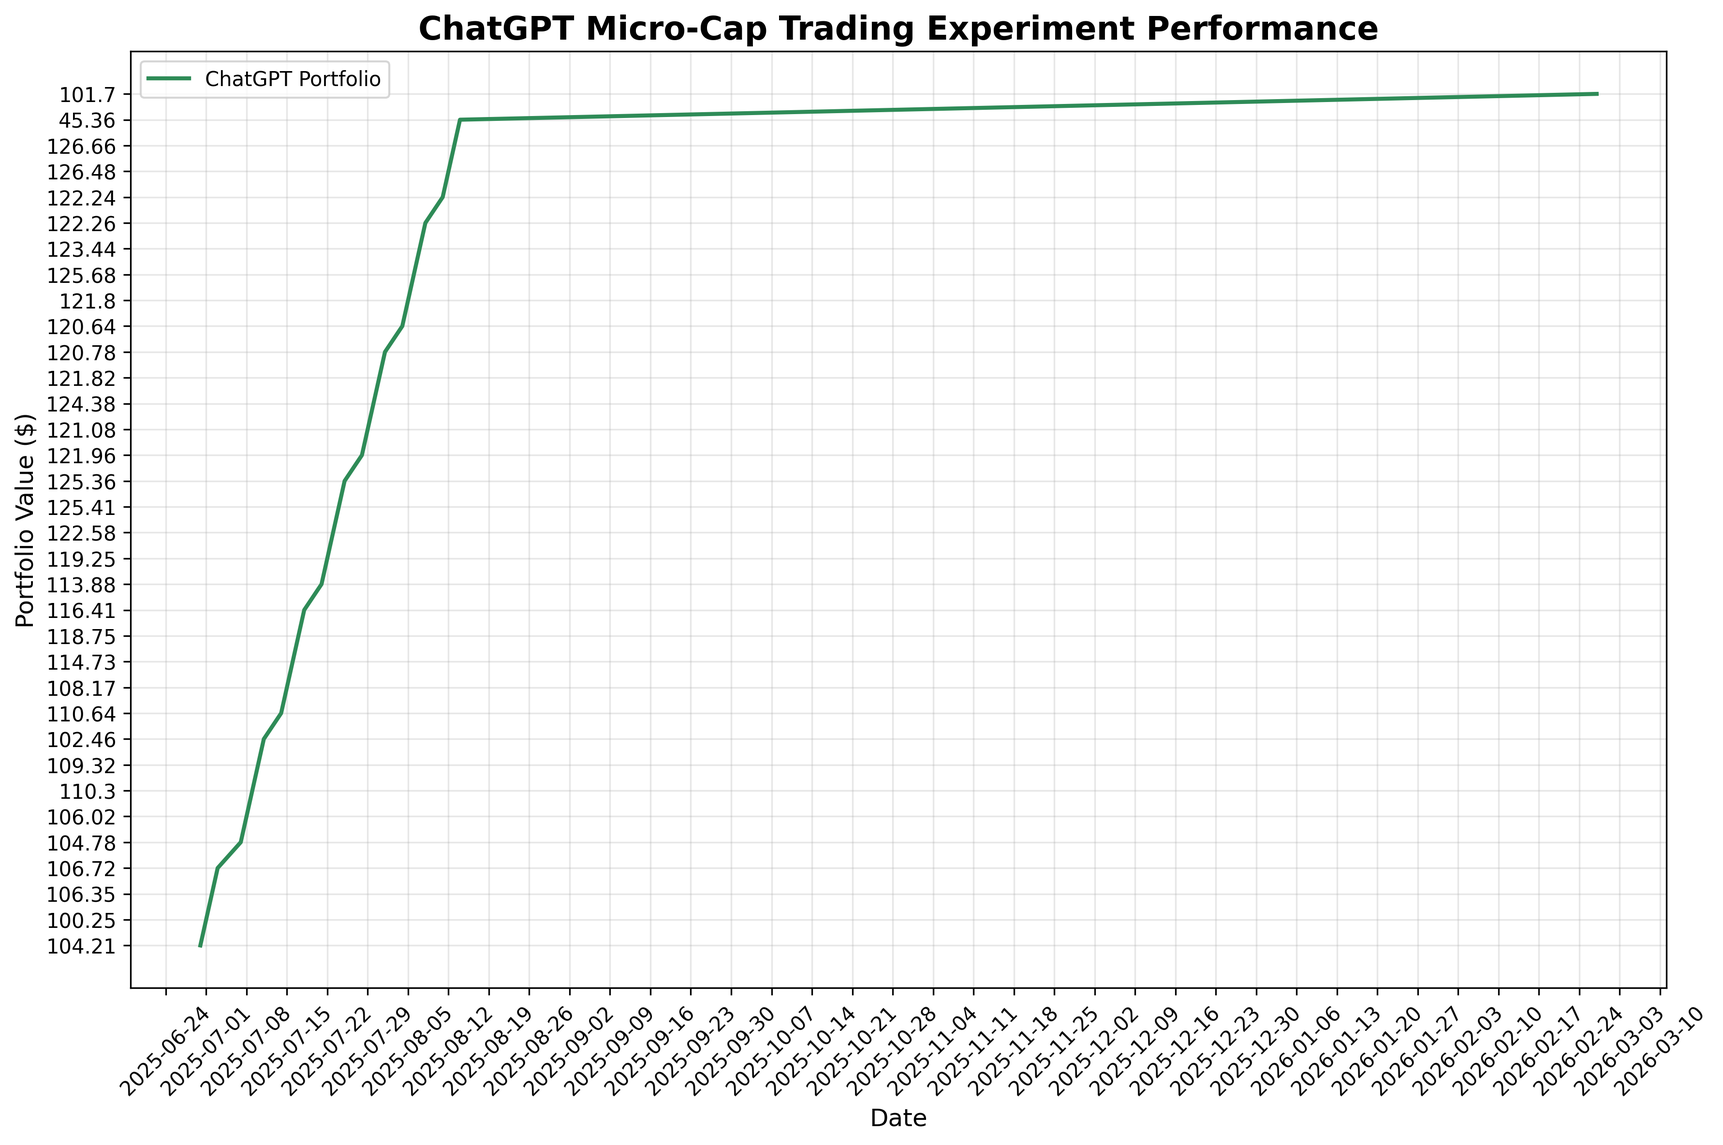
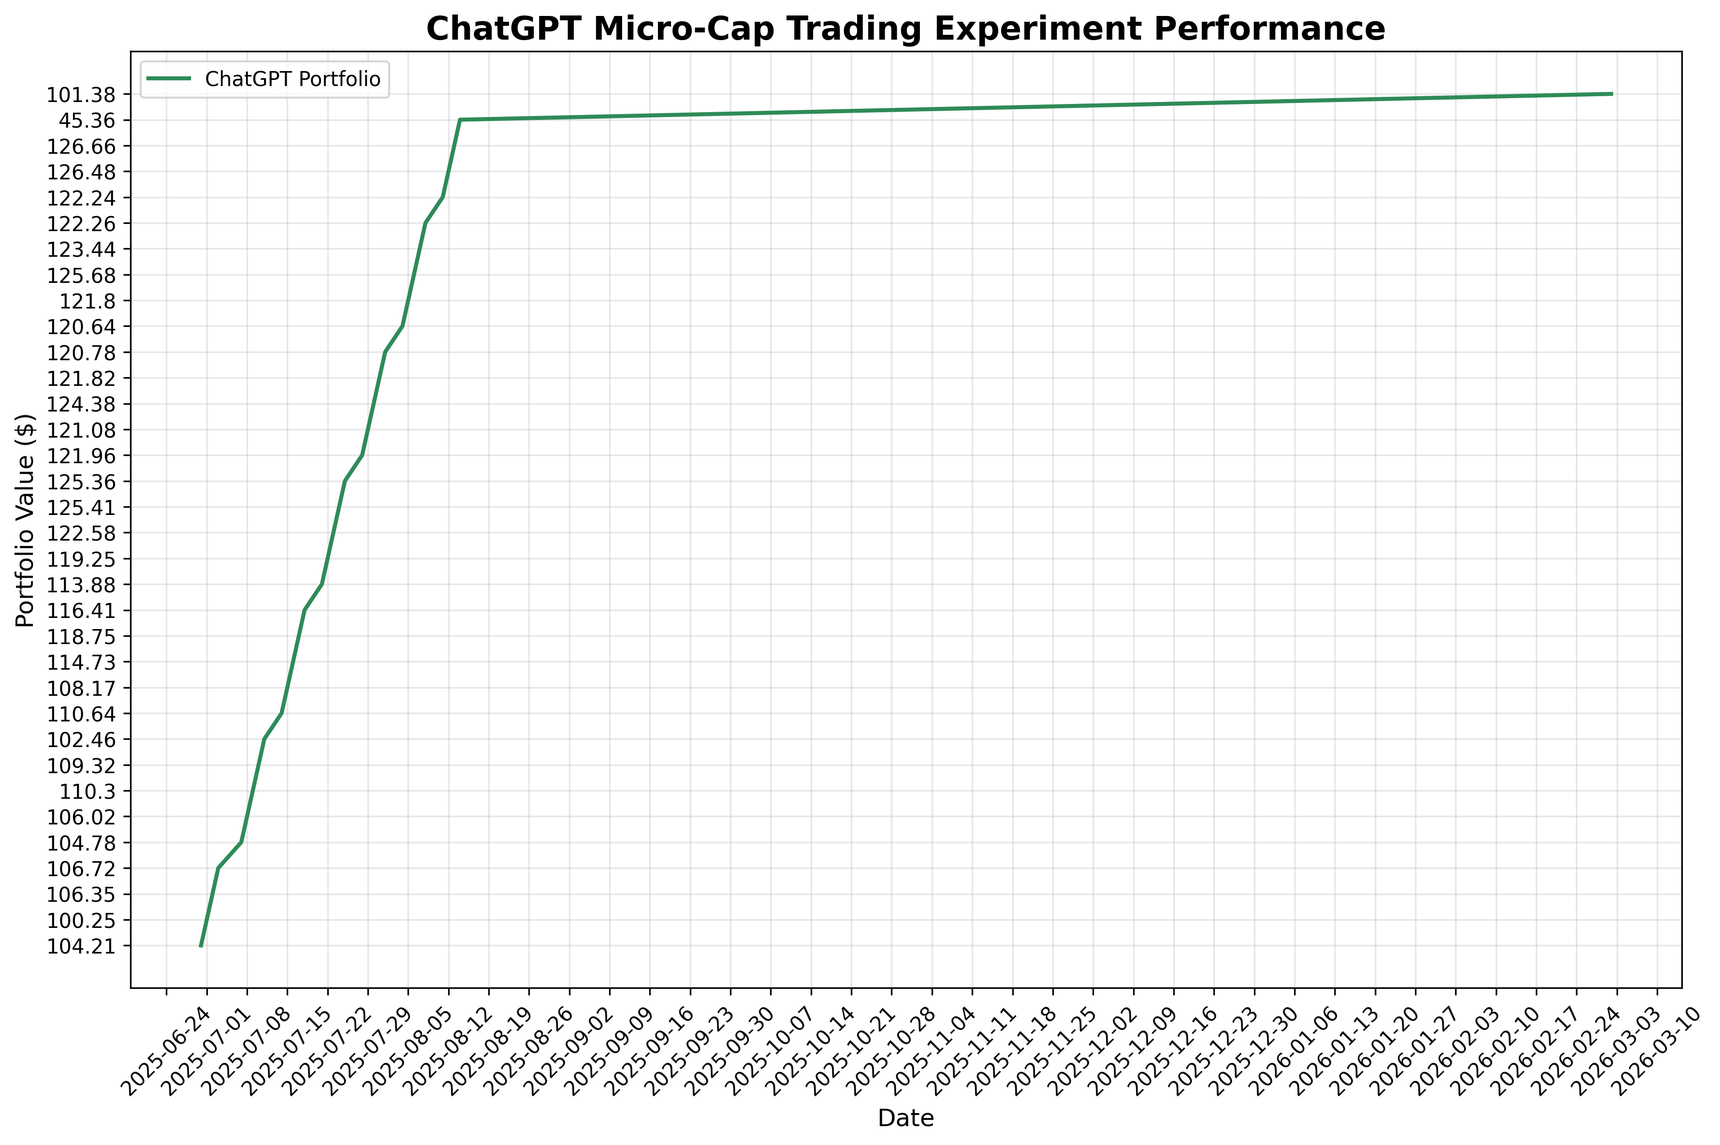
deploy: e15cad030d70fb3fbb51f9df6e22fa70c2f175c0

diff --git a/index.html b/index.html
@@ -105,7 +105,7 @@
                 <div class="stat-label">Total Trades</div>
             </div>
             <div class="stat-card">
-                <div class="stat-value" id="last-updated">2026-02-27</div>
+                <div class="stat-value" id="last-updated">2026-03-02</div>
                 <div class="stat-label">Last Updated</div>
             </div>
         </div>
@@ -160,8 +160,8 @@
     
     <script>
         // Portfolio data
-        const portfolioData = JSON.parse("[{&quot;Date&quot;: &quot;2025-08-11&quot;, &quot;Ticker&quot;: &quot;ABEO&quot;, &quot;Shares&quot;: 4.0, &quot;Buy Price&quot;: 5.77, &quot;Cost Basis&quot;: 23.08, &quot;Stop Loss&quot;: 4.9, &quot;Current Price&quot;: 6.28, &quot;Total Value&quot;: 25.12, &quot;PnL&quot;: 2.04, &quot;Action&quot;: &quot;HOLD&quot;, &quot;Cash Balance&quot;: NaN, &quot;Total Equity&quot;: NaN}, {&quot;Date&quot;: &quot;2025-08-11&quot;, &quot;Ticker&quot;: &quot;ACTU&quot;, &quot;Shares&quot;: 6.0, &quot;Buy Price&quot;: 5.75, &quot;Cost Basis&quot;: 34.5, &quot;Stop Loss&quot;: 4.89, &quot;Current Price&quot;: 8.01, &quot;Total Value&quot;: 48.06, &quot;PnL&quot;: 13.56, &quot;Action&quot;: &quot;HOLD&quot;, &quot;Cash Balance&quot;: NaN, &quot;Total Equity&quot;: NaN}, {&quot;Date&quot;: &quot;2025-08-11&quot;, &quot;Ticker&quot;: &quot;ESPR&quot;, &quot;Shares&quot;: 2.0, &quot;Buy Price&quot;: 1.91, &quot;Cost Basis&quot;: 3.82, &quot;Stop Loss&quot;: 1.6, &quot;Current Price&quot;: 1.85, &quot;Total Value&quot;: 3.7, &quot;PnL&quot;: -0.12, &quot;Action&quot;: &quot;HOLD&quot;, &quot;Cash Balance&quot;: NaN, &quot;Total Equity&quot;: NaN}, {&quot;Date&quot;: &quot;2025-08-11&quot;, &quot;Ticker&quot;: &quot;TOTAL&quot;, &quot;Shares&quot;: NaN, &quot;Buy Price&quot;: NaN, &quot;Cost Basis&quot;: NaN, &quot;Stop Loss&quot;: NaN, &quot;Current Price&quot;: NaN, &quot;Total Value&quot;: 76.88, &quot;PnL&quot;: 15.48, &quot;Action&quot;: NaN, &quot;Cash Balance&quot;: 45.36, &quot;Total Equity&quot;: &quot;122.24&quot;}, {&quot;Date&quot;: &quot;2025-08-12&quot;, &quot;Ticker&quot;: &quot;ABEO&quot;, &quot;Shares&quot;: 4.0, &quot;Buy Price&quot;: 5.77, &quot;Cost Basis&quot;: 23.08, &quot;Stop Loss&quot;: 4.9, &quot;Current Price&quot;: 6.38, &quot;Total Value&quot;: 25.52, &quot;PnL&quot;: 2.44, &quot;Action&quot;: &quot;HOLD&quot;, &quot;Cash Balance&quot;: NaN, &quot;Total Equity&quot;: NaN}, {&quot;Date&quot;: &quot;2025-08-12&quot;, &quot;Ticker&quot;: &quot;ACTU&quot;, &quot;Shares&quot;: 6.0, &quot;Buy Price&quot;: 5.75, &quot;Cost Basis&quot;: 34.5, &quot;Stop Loss&quot;: 4.89, &quot;Current Price&quot;: 8.67, &quot;Total Value&quot;: 52.02, &quot;PnL&quot;: 17.52, &quot;Action&quot;: &quot;HOLD&quot;, &quot;Cash Balance&quot;: NaN, &quot;Total Equity&quot;: NaN}, {&quot;Date&quot;: &quot;2025-08-12&quot;, &quot;Ticker&quot;: &quot;ESPR&quot;, &quot;Shares&quot;: 2.0, &quot;Buy Price&quot;: 1.91, &quot;Cost Basis&quot;: 3.82, &quot;Stop Loss&quot;: 1.6, &quot;Current Price&quot;: 1.79, &quot;Total Value&quot;: 3.58, &quot;PnL&quot;: -0.24, &quot;Action&quot;: &quot;HOLD&quot;, &quot;Cash Balance&quot;: NaN, &quot;Total Equity&quot;: NaN}, {&quot;Date&quot;: &quot;2025-08-12&quot;, &quot;Ticker&quot;: &quot;TOTAL&quot;, &quot;Shares&quot;: NaN, &quot;Buy Price&quot;: NaN, &quot;Cost Basis&quot;: NaN, &quot;Stop Loss&quot;: NaN, &quot;Current Price&quot;: NaN, &quot;Total Value&quot;: 81.12, &quot;PnL&quot;: 19.72, &quot;Action&quot;: NaN, &quot;Cash Balance&quot;: 45.36, &quot;Total Equity&quot;: &quot;126.48&quot;}, {&quot;Date&quot;: &quot;2025-08-13&quot;, &quot;Ticker&quot;: &quot;ABEO&quot;, &quot;Shares&quot;: 4.0, &quot;Buy Price&quot;: 5.77, &quot;Cost Basis&quot;: 23.08, &quot;Stop Loss&quot;: 4.9, &quot;Current Price&quot;: 6.56, &quot;Total Value&quot;: 26.24, &quot;PnL&quot;: 3.16, &quot;Action&quot;: &quot;HOLD&quot;, &quot;Cash Balance&quot;: NaN, &quot;Total Equity&quot;: NaN}, {&quot;Date&quot;: &quot;2025-08-13&quot;, &quot;Ticker&quot;: &quot;ACTU&quot;, &quot;Shares&quot;: 6.0, &quot;Buy Price&quot;: 5.75, &quot;Cost Basis&quot;: 34.5, &quot;Stop Loss&quot;: 4.89, &quot;Current Price&quot;: 8.53, &quot;Total Value&quot;: 51.18, &quot;PnL&quot;: 16.68, &quot;Action&quot;: &quot;HOLD&quot;, &quot;Cash Balance&quot;: NaN, &quot;Total Equity&quot;: NaN}, {&quot;Date&quot;: &quot;2025-08-13&quot;, &quot;Ticker&quot;: &quot;ESPR&quot;, &quot;Shares&quot;: 2.0, &quot;Buy Price&quot;: 1.91, &quot;Cost Basis&quot;: 3.82, &quot;Stop Loss&quot;: 1.6, &quot;Current Price&quot;: 1.94, &quot;Total Value&quot;: 3.88, &quot;PnL&quot;: 0.06, &quot;Action&quot;: &quot;HOLD&quot;, &quot;Cash Balance&quot;: NaN, &quot;Total Equity&quot;: NaN}, {&quot;Date&quot;: &quot;2025-08-13&quot;, &quot;Ticker&quot;: &quot;TOTAL&quot;, &quot;Shares&quot;: NaN, &quot;Buy Price&quot;: NaN, &quot;Cost Basis&quot;: NaN, &quot;Stop Loss&quot;: NaN, &quot;Current Price&quot;: NaN, &quot;Total Value&quot;: 81.3, &quot;PnL&quot;: 19.9, &quot;Action&quot;: NaN, &quot;Cash Balance&quot;: 45.36, &quot;Total Equity&quot;: &quot;126.66&quot;}, {&quot;Date&quot;: &quot;2025-08-14&quot;, &quot;Ticker&quot;: &quot;ABEO&quot;, &quot;Shares&quot;: 4.0, &quot;Buy Price&quot;: 5.77, &quot;Cost Basis&quot;: 23.08, &quot;Stop Loss&quot;: 4.9, &quot;Current Price&quot;: NaN, &quot;Total Value&quot;: NaN, &quot;PnL&quot;: NaN, &quot;Action&quot;: &quot;NO DATA&quot;, &quot;Cash Balance&quot;: NaN, &quot;Total Equity&quot;: NaN}, {&quot;Date&quot;: &quot;2025-08-14&quot;, &quot;Ticker&quot;: &quot;ACTU&quot;, &quot;Shares&quot;: 6.0, &quot;Buy Price&quot;: 5.75, &quot;Cost Basis&quot;: 34.5, &quot;Stop Loss&quot;: 4.89, &quot;Current Price&quot;: NaN, &quot;Total Value&quot;: NaN, &quot;PnL&quot;: NaN, &quot;Action&quot;: &quot;NO DATA&quot;, &quot;Cash Balance&quot;: NaN, &quot;Total Equity&quot;: NaN}, {&quot;Date&quot;: &quot;2025-08-14&quot;, &quot;Ticker&quot;: &quot;ESPR&quot;, &quot;Shares&quot;: 2.0, &quot;Buy Price&quot;: 1.91, &quot;Cost Basis&quot;: 3.82, &quot;Stop Loss&quot;: 1.6, &quot;Current Price&quot;: NaN, &quot;Total Value&quot;: NaN, &quot;PnL&quot;: NaN, &quot;Action&quot;: &quot;NO DATA&quot;, &quot;Cash Balance&quot;: NaN, &quot;Total Equity&quot;: NaN}, {&quot;Date&quot;: &quot;2025-08-14&quot;, &quot;Ticker&quot;: &quot;TOTAL&quot;, &quot;Shares&quot;: NaN, &quot;Buy Price&quot;: NaN, &quot;Cost Basis&quot;: NaN, &quot;Stop Loss&quot;: NaN, &quot;Current Price&quot;: NaN, &quot;Total Value&quot;: 0.0, &quot;PnL&quot;: 0.0, &quot;Action&quot;: NaN, &quot;Cash Balance&quot;: 45.36, &quot;Total Equity&quot;: &quot;45.36&quot;}, {&quot;Date&quot;: &quot;2026-02-27&quot;, &quot;Ticker&quot;: &quot;ABEO&quot;, &quot;Shares&quot;: 4.0, &quot;Buy Price&quot;: 5.77, &quot;Cost Basis&quot;: 23.08, &quot;Stop Loss&quot;: 4.9, &quot;Current Price&quot;: 5.1, &quot;Total Value&quot;: 20.4, &quot;PnL&quot;: -2.68, &quot;Action&quot;: &quot;HOLD&quot;, &quot;Cash Balance&quot;: NaN, &quot;Total Equity&quot;: NaN}, {&quot;Date&quot;: &quot;2026-02-27&quot;, &quot;Ticker&quot;: &quot;ACTU&quot;, &quot;Shares&quot;: 6.0, &quot;Buy Price&quot;: 5.75, &quot;Cost Basis&quot;: 34.5, &quot;Stop Loss&quot;: 4.89, &quot;Current Price&quot;: 4.89, &quot;Total Value&quot;: 29.34, &quot;PnL&quot;: -5.16, &quot;Action&quot;: &quot;SELL - Stop Loss Triggered&quot;, &quot;Cash Balance&quot;: NaN, &quot;Total Equity&quot;: NaN}, {&quot;Date&quot;: &quot;2026-02-27&quot;, &quot;Ticker&quot;: &quot;ESPR&quot;, &quot;Shares&quot;: 2.0, &quot;Buy Price&quot;: 1.91, &quot;Cost Basis&quot;: 3.82, &quot;Stop Loss&quot;: 1.6, &quot;Current Price&quot;: 3.3, &quot;Total Value&quot;: 6.6, &quot;PnL&quot;: 2.78, &quot;Action&quot;: &quot;HOLD&quot;, &quot;Cash Balance&quot;: NaN, &quot;Total Equity&quot;: NaN}, {&quot;Date&quot;: &quot;2026-02-27&quot;, &quot;Ticker&quot;: &quot;TOTAL&quot;, &quot;Shares&quot;: NaN, &quot;Buy Price&quot;: NaN, &quot;Cost Basis&quot;: NaN, &quot;Stop Loss&quot;: NaN, &quot;Current Price&quot;: NaN, &quot;Total Value&quot;: 27.0, &quot;PnL&quot;: 0.1, &quot;Action&quot;: NaN, &quot;Cash Balance&quot;: 74.7, &quot;Total Equity&quot;: &quot;101.7&quot;}]");
-        const tradeData = JSON.parse("[{&quot;Date&quot;: &quot;2025-07-08&quot;, &quot;Ticker&quot;: &quot;IINN&quot;, &quot;Shares Bought&quot;: 20.0, &quot;Buy Price&quot;: 1.5, &quot;Cost Basis&quot;: 30.0, &quot;PnL&quot;: 0.0, &quot;Reason&quot;: &quot;MANUAL BUY - New position&quot;, &quot;Shares Sold&quot;: NaN, &quot;Sell Price&quot;: NaN}, {&quot;Date&quot;: &quot;2025-07-21&quot;, &quot;Ticker&quot;: &quot;CADL&quot;, &quot;Shares Bought&quot;: NaN, &quot;Buy Price&quot;: NaN, &quot;Cost Basis&quot;: 25.2, &quot;PnL&quot;: 8.5, &quot;Reason&quot;: &quot;MANUAL SELL - GAIN CAPITAL FOR ACTU&quot;, &quot;Shares Sold&quot;: 5.0, &quot;Sell Price&quot;: 6.59}, {&quot;Date&quot;: &quot;2025-07-21&quot;, &quot;Ticker&quot;: &quot;ACTU&quot;, &quot;Shares Bought&quot;: 6.0, &quot;Buy Price&quot;: 5.75, &quot;Cost Basis&quot;: 34.5, &quot;PnL&quot;: 0.0, &quot;Reason&quot;: &quot;MANUAL BUY - New position&quot;, &quot;Shares Sold&quot;: NaN, &quot;Sell Price&quot;: NaN}, {&quot;Date&quot;: &quot;2025-07-28&quot;, &quot;Ticker&quot;: &quot;IINN&quot;, &quot;Shares Bought&quot;: NaN, &quot;Buy Price&quot;: NaN, &quot;Cost Basis&quot;: 9.0, &quot;PnL&quot;: -0.5400000000000009, &quot;Reason&quot;: &quot;MANUAL SELL - POSITION REDUCTION&quot;, &quot;Shares Sold&quot;: 6.0, &quot;Sell Price&quot;: 1.41}, {&quot;Date&quot;: &quot;2025-07-29&quot;, &quot;Ticker&quot;: &quot;AZTR&quot;, &quot;Shares Bought&quot;: NaN, &quot;Buy Price&quot;: NaN, &quot;Cost Basis&quot;: 13.75, &quot;PnL&quot;: -2.75, &quot;Reason&quot;: &quot;MANUAL SELL - DILUTION RISK&quot;, &quot;Shares Sold&quot;: 55.0, &quot;Sell Price&quot;: 0.2}, {&quot;Date&quot;: &quot;2025-08-01&quot;, &quot;Ticker&quot;: &quot;IINN&quot;, &quot;Shares Bought&quot;: 2.0, &quot;Buy Price&quot;: 1.74, &quot;Cost Basis&quot;: 3.48, &quot;PnL&quot;: 0.0, &quot;Reason&quot;: &quot;MANUAL BUY - New position&quot;, &quot;Shares Sold&quot;: NaN, &quot;Sell Price&quot;: NaN}, {&quot;Date&quot;: &quot;2025-08-01&quot;, &quot;Ticker&quot;: &quot;ABEO&quot;, &quot;Shares Bought&quot;: NaN, &quot;Buy Price&quot;: NaN, &quot;Cost Basis&quot;: 11.54, &quot;PnL&quot;: 1.200000000000001, &quot;Reason&quot;: &quot;MANUAL SELL - TRIM AFTER SUPPORT LOSS&quot;, &quot;Shares Sold&quot;: 2.0, &quot;Sell Price&quot;: 6.37}, {&quot;Date&quot;: &quot;2025-08-07&quot;, &quot;Ticker&quot;: &quot;ESPR&quot;, &quot;Shares Bought&quot;: 2.0, &quot;Buy Price&quot;: 1.91, &quot;Cost Basis&quot;: 3.82, &quot;PnL&quot;: 0.0, &quot;Reason&quot;: &quot;MANUAL BUY - New position&quot;, &quot;Shares Sold&quot;: NaN, &quot;Sell Price&quot;: NaN}, {&quot;Date&quot;: &quot;2025-08-08&quot;, &quot;Ticker&quot;: &quot;IINN&quot;, &quot;Shares Bought&quot;: NaN, &quot;Buy Price&quot;: NaN, &quot;Cost Basis&quot;: 1.5, &quot;PnL&quot;: -6.4, &quot;Reason&quot;: &quot;AUTOMATED SELL - STOPLOSS TRIGGERED&quot;, &quot;Shares Sold&quot;: 16.0, &quot;Sell Price&quot;: 1.1}, {&quot;Date&quot;: &quot;2026-02-27&quot;, &quot;Ticker&quot;: &quot;ACTU&quot;, &quot;Shares Bought&quot;: NaN, &quot;Buy Price&quot;: NaN, &quot;Cost Basis&quot;: 5.75, &quot;PnL&quot;: -5.16, &quot;Reason&quot;: &quot;AUTOMATED SELL - STOPLOSS TRIGGERED&quot;, &quot;Shares Sold&quot;: 6.0, &quot;Sell Price&quot;: 4.89}]");
+        const portfolioData = JSON.parse("[{&quot;Date&quot;: &quot;2025-08-11&quot;, &quot;Ticker&quot;: &quot;ABEO&quot;, &quot;Shares&quot;: 4.0, &quot;Buy Price&quot;: 5.77, &quot;Cost Basis&quot;: 23.08, &quot;Stop Loss&quot;: 4.9, &quot;Current Price&quot;: 6.28, &quot;Total Value&quot;: 25.12, &quot;PnL&quot;: 2.04, &quot;Action&quot;: &quot;HOLD&quot;, &quot;Cash Balance&quot;: NaN, &quot;Total Equity&quot;: NaN}, {&quot;Date&quot;: &quot;2025-08-11&quot;, &quot;Ticker&quot;: &quot;ACTU&quot;, &quot;Shares&quot;: 6.0, &quot;Buy Price&quot;: 5.75, &quot;Cost Basis&quot;: 34.5, &quot;Stop Loss&quot;: 4.89, &quot;Current Price&quot;: 8.01, &quot;Total Value&quot;: 48.06, &quot;PnL&quot;: 13.56, &quot;Action&quot;: &quot;HOLD&quot;, &quot;Cash Balance&quot;: NaN, &quot;Total Equity&quot;: NaN}, {&quot;Date&quot;: &quot;2025-08-11&quot;, &quot;Ticker&quot;: &quot;ESPR&quot;, &quot;Shares&quot;: 2.0, &quot;Buy Price&quot;: 1.91, &quot;Cost Basis&quot;: 3.82, &quot;Stop Loss&quot;: 1.6, &quot;Current Price&quot;: 1.85, &quot;Total Value&quot;: 3.7, &quot;PnL&quot;: -0.12, &quot;Action&quot;: &quot;HOLD&quot;, &quot;Cash Balance&quot;: NaN, &quot;Total Equity&quot;: NaN}, {&quot;Date&quot;: &quot;2025-08-11&quot;, &quot;Ticker&quot;: &quot;TOTAL&quot;, &quot;Shares&quot;: NaN, &quot;Buy Price&quot;: NaN, &quot;Cost Basis&quot;: NaN, &quot;Stop Loss&quot;: NaN, &quot;Current Price&quot;: NaN, &quot;Total Value&quot;: 76.88, &quot;PnL&quot;: 15.48, &quot;Action&quot;: NaN, &quot;Cash Balance&quot;: 45.36, &quot;Total Equity&quot;: &quot;122.24&quot;}, {&quot;Date&quot;: &quot;2025-08-12&quot;, &quot;Ticker&quot;: &quot;ABEO&quot;, &quot;Shares&quot;: 4.0, &quot;Buy Price&quot;: 5.77, &quot;Cost Basis&quot;: 23.08, &quot;Stop Loss&quot;: 4.9, &quot;Current Price&quot;: 6.38, &quot;Total Value&quot;: 25.52, &quot;PnL&quot;: 2.44, &quot;Action&quot;: &quot;HOLD&quot;, &quot;Cash Balance&quot;: NaN, &quot;Total Equity&quot;: NaN}, {&quot;Date&quot;: &quot;2025-08-12&quot;, &quot;Ticker&quot;: &quot;ACTU&quot;, &quot;Shares&quot;: 6.0, &quot;Buy Price&quot;: 5.75, &quot;Cost Basis&quot;: 34.5, &quot;Stop Loss&quot;: 4.89, &quot;Current Price&quot;: 8.67, &quot;Total Value&quot;: 52.02, &quot;PnL&quot;: 17.52, &quot;Action&quot;: &quot;HOLD&quot;, &quot;Cash Balance&quot;: NaN, &quot;Total Equity&quot;: NaN}, {&quot;Date&quot;: &quot;2025-08-12&quot;, &quot;Ticker&quot;: &quot;ESPR&quot;, &quot;Shares&quot;: 2.0, &quot;Buy Price&quot;: 1.91, &quot;Cost Basis&quot;: 3.82, &quot;Stop Loss&quot;: 1.6, &quot;Current Price&quot;: 1.79, &quot;Total Value&quot;: 3.58, &quot;PnL&quot;: -0.24, &quot;Action&quot;: &quot;HOLD&quot;, &quot;Cash Balance&quot;: NaN, &quot;Total Equity&quot;: NaN}, {&quot;Date&quot;: &quot;2025-08-12&quot;, &quot;Ticker&quot;: &quot;TOTAL&quot;, &quot;Shares&quot;: NaN, &quot;Buy Price&quot;: NaN, &quot;Cost Basis&quot;: NaN, &quot;Stop Loss&quot;: NaN, &quot;Current Price&quot;: NaN, &quot;Total Value&quot;: 81.12, &quot;PnL&quot;: 19.72, &quot;Action&quot;: NaN, &quot;Cash Balance&quot;: 45.36, &quot;Total Equity&quot;: &quot;126.48&quot;}, {&quot;Date&quot;: &quot;2025-08-13&quot;, &quot;Ticker&quot;: &quot;ABEO&quot;, &quot;Shares&quot;: 4.0, &quot;Buy Price&quot;: 5.77, &quot;Cost Basis&quot;: 23.08, &quot;Stop Loss&quot;: 4.9, &quot;Current Price&quot;: 6.56, &quot;Total Value&quot;: 26.24, &quot;PnL&quot;: 3.16, &quot;Action&quot;: &quot;HOLD&quot;, &quot;Cash Balance&quot;: NaN, &quot;Total Equity&quot;: NaN}, {&quot;Date&quot;: &quot;2025-08-13&quot;, &quot;Ticker&quot;: &quot;ACTU&quot;, &quot;Shares&quot;: 6.0, &quot;Buy Price&quot;: 5.75, &quot;Cost Basis&quot;: 34.5, &quot;Stop Loss&quot;: 4.89, &quot;Current Price&quot;: 8.53, &quot;Total Value&quot;: 51.18, &quot;PnL&quot;: 16.68, &quot;Action&quot;: &quot;HOLD&quot;, &quot;Cash Balance&quot;: NaN, &quot;Total Equity&quot;: NaN}, {&quot;Date&quot;: &quot;2025-08-13&quot;, &quot;Ticker&quot;: &quot;ESPR&quot;, &quot;Shares&quot;: 2.0, &quot;Buy Price&quot;: 1.91, &quot;Cost Basis&quot;: 3.82, &quot;Stop Loss&quot;: 1.6, &quot;Current Price&quot;: 1.94, &quot;Total Value&quot;: 3.88, &quot;PnL&quot;: 0.06, &quot;Action&quot;: &quot;HOLD&quot;, &quot;Cash Balance&quot;: NaN, &quot;Total Equity&quot;: NaN}, {&quot;Date&quot;: &quot;2025-08-13&quot;, &quot;Ticker&quot;: &quot;TOTAL&quot;, &quot;Shares&quot;: NaN, &quot;Buy Price&quot;: NaN, &quot;Cost Basis&quot;: NaN, &quot;Stop Loss&quot;: NaN, &quot;Current Price&quot;: NaN, &quot;Total Value&quot;: 81.3, &quot;PnL&quot;: 19.9, &quot;Action&quot;: NaN, &quot;Cash Balance&quot;: 45.36, &quot;Total Equity&quot;: &quot;126.66&quot;}, {&quot;Date&quot;: &quot;2025-08-14&quot;, &quot;Ticker&quot;: &quot;ABEO&quot;, &quot;Shares&quot;: 4.0, &quot;Buy Price&quot;: 5.77, &quot;Cost Basis&quot;: 23.08, &quot;Stop Loss&quot;: 4.9, &quot;Current Price&quot;: NaN, &quot;Total Value&quot;: NaN, &quot;PnL&quot;: NaN, &quot;Action&quot;: &quot;NO DATA&quot;, &quot;Cash Balance&quot;: NaN, &quot;Total Equity&quot;: NaN}, {&quot;Date&quot;: &quot;2025-08-14&quot;, &quot;Ticker&quot;: &quot;ACTU&quot;, &quot;Shares&quot;: 6.0, &quot;Buy Price&quot;: 5.75, &quot;Cost Basis&quot;: 34.5, &quot;Stop Loss&quot;: 4.89, &quot;Current Price&quot;: NaN, &quot;Total Value&quot;: NaN, &quot;PnL&quot;: NaN, &quot;Action&quot;: &quot;NO DATA&quot;, &quot;Cash Balance&quot;: NaN, &quot;Total Equity&quot;: NaN}, {&quot;Date&quot;: &quot;2025-08-14&quot;, &quot;Ticker&quot;: &quot;ESPR&quot;, &quot;Shares&quot;: 2.0, &quot;Buy Price&quot;: 1.91, &quot;Cost Basis&quot;: 3.82, &quot;Stop Loss&quot;: 1.6, &quot;Current Price&quot;: NaN, &quot;Total Value&quot;: NaN, &quot;PnL&quot;: NaN, &quot;Action&quot;: &quot;NO DATA&quot;, &quot;Cash Balance&quot;: NaN, &quot;Total Equity&quot;: NaN}, {&quot;Date&quot;: &quot;2025-08-14&quot;, &quot;Ticker&quot;: &quot;TOTAL&quot;, &quot;Shares&quot;: NaN, &quot;Buy Price&quot;: NaN, &quot;Cost Basis&quot;: NaN, &quot;Stop Loss&quot;: NaN, &quot;Current Price&quot;: NaN, &quot;Total Value&quot;: 0.0, &quot;PnL&quot;: 0.0, &quot;Action&quot;: NaN, &quot;Cash Balance&quot;: 45.36, &quot;Total Equity&quot;: &quot;45.36&quot;}, {&quot;Date&quot;: &quot;2026-03-02&quot;, &quot;Ticker&quot;: &quot;ABEO&quot;, &quot;Shares&quot;: 4.0, &quot;Buy Price&quot;: 5.77, &quot;Cost Basis&quot;: 23.08, &quot;Stop Loss&quot;: 4.9, &quot;Current Price&quot;: 5.02, &quot;Total Value&quot;: 20.08, &quot;PnL&quot;: -3.0, &quot;Action&quot;: &quot;HOLD&quot;, &quot;Cash Balance&quot;: NaN, &quot;Total Equity&quot;: NaN}, {&quot;Date&quot;: &quot;2026-03-02&quot;, &quot;Ticker&quot;: &quot;ACTU&quot;, &quot;Shares&quot;: 6.0, &quot;Buy Price&quot;: 5.75, &quot;Cost Basis&quot;: 34.5, &quot;Stop Loss&quot;: 4.89, &quot;Current Price&quot;: 4.89, &quot;Total Value&quot;: 29.34, &quot;PnL&quot;: -5.16, &quot;Action&quot;: &quot;SELL - Stop Loss Triggered&quot;, &quot;Cash Balance&quot;: NaN, &quot;Total Equity&quot;: NaN}, {&quot;Date&quot;: &quot;2026-03-02&quot;, &quot;Ticker&quot;: &quot;ESPR&quot;, &quot;Shares&quot;: 2.0, &quot;Buy Price&quot;: 1.91, &quot;Cost Basis&quot;: 3.82, &quot;Stop Loss&quot;: 1.6, &quot;Current Price&quot;: 3.3, &quot;Total Value&quot;: 6.6, &quot;PnL&quot;: 2.78, &quot;Action&quot;: &quot;HOLD&quot;, &quot;Cash Balance&quot;: NaN, &quot;Total Equity&quot;: NaN}, {&quot;Date&quot;: &quot;2026-03-02&quot;, &quot;Ticker&quot;: &quot;TOTAL&quot;, &quot;Shares&quot;: NaN, &quot;Buy Price&quot;: NaN, &quot;Cost Basis&quot;: NaN, &quot;Stop Loss&quot;: NaN, &quot;Current Price&quot;: NaN, &quot;Total Value&quot;: 26.68, &quot;PnL&quot;: -0.22, &quot;Action&quot;: NaN, &quot;Cash Balance&quot;: 74.7, &quot;Total Equity&quot;: &quot;101.38&quot;}]");
+        const tradeData = JSON.parse("[{&quot;Date&quot;: &quot;2025-07-08&quot;, &quot;Ticker&quot;: &quot;IINN&quot;, &quot;Shares Bought&quot;: 20.0, &quot;Buy Price&quot;: 1.5, &quot;Cost Basis&quot;: 30.0, &quot;PnL&quot;: 0.0, &quot;Reason&quot;: &quot;MANUAL BUY - New position&quot;, &quot;Shares Sold&quot;: NaN, &quot;Sell Price&quot;: NaN}, {&quot;Date&quot;: &quot;2025-07-21&quot;, &quot;Ticker&quot;: &quot;CADL&quot;, &quot;Shares Bought&quot;: NaN, &quot;Buy Price&quot;: NaN, &quot;Cost Basis&quot;: 25.2, &quot;PnL&quot;: 8.5, &quot;Reason&quot;: &quot;MANUAL SELL - GAIN CAPITAL FOR ACTU&quot;, &quot;Shares Sold&quot;: 5.0, &quot;Sell Price&quot;: 6.59}, {&quot;Date&quot;: &quot;2025-07-21&quot;, &quot;Ticker&quot;: &quot;ACTU&quot;, &quot;Shares Bought&quot;: 6.0, &quot;Buy Price&quot;: 5.75, &quot;Cost Basis&quot;: 34.5, &quot;PnL&quot;: 0.0, &quot;Reason&quot;: &quot;MANUAL BUY - New position&quot;, &quot;Shares Sold&quot;: NaN, &quot;Sell Price&quot;: NaN}, {&quot;Date&quot;: &quot;2025-07-28&quot;, &quot;Ticker&quot;: &quot;IINN&quot;, &quot;Shares Bought&quot;: NaN, &quot;Buy Price&quot;: NaN, &quot;Cost Basis&quot;: 9.0, &quot;PnL&quot;: -0.5400000000000009, &quot;Reason&quot;: &quot;MANUAL SELL - POSITION REDUCTION&quot;, &quot;Shares Sold&quot;: 6.0, &quot;Sell Price&quot;: 1.41}, {&quot;Date&quot;: &quot;2025-07-29&quot;, &quot;Ticker&quot;: &quot;AZTR&quot;, &quot;Shares Bought&quot;: NaN, &quot;Buy Price&quot;: NaN, &quot;Cost Basis&quot;: 13.75, &quot;PnL&quot;: -2.75, &quot;Reason&quot;: &quot;MANUAL SELL - DILUTION RISK&quot;, &quot;Shares Sold&quot;: 55.0, &quot;Sell Price&quot;: 0.2}, {&quot;Date&quot;: &quot;2025-08-01&quot;, &quot;Ticker&quot;: &quot;IINN&quot;, &quot;Shares Bought&quot;: 2.0, &quot;Buy Price&quot;: 1.74, &quot;Cost Basis&quot;: 3.48, &quot;PnL&quot;: 0.0, &quot;Reason&quot;: &quot;MANUAL BUY - New position&quot;, &quot;Shares Sold&quot;: NaN, &quot;Sell Price&quot;: NaN}, {&quot;Date&quot;: &quot;2025-08-01&quot;, &quot;Ticker&quot;: &quot;ABEO&quot;, &quot;Shares Bought&quot;: NaN, &quot;Buy Price&quot;: NaN, &quot;Cost Basis&quot;: 11.54, &quot;PnL&quot;: 1.200000000000001, &quot;Reason&quot;: &quot;MANUAL SELL - TRIM AFTER SUPPORT LOSS&quot;, &quot;Shares Sold&quot;: 2.0, &quot;Sell Price&quot;: 6.37}, {&quot;Date&quot;: &quot;2025-08-07&quot;, &quot;Ticker&quot;: &quot;ESPR&quot;, &quot;Shares Bought&quot;: 2.0, &quot;Buy Price&quot;: 1.91, &quot;Cost Basis&quot;: 3.82, &quot;PnL&quot;: 0.0, &quot;Reason&quot;: &quot;MANUAL BUY - New position&quot;, &quot;Shares Sold&quot;: NaN, &quot;Sell Price&quot;: NaN}, {&quot;Date&quot;: &quot;2025-08-08&quot;, &quot;Ticker&quot;: &quot;IINN&quot;, &quot;Shares Bought&quot;: NaN, &quot;Buy Price&quot;: NaN, &quot;Cost Basis&quot;: 1.5, &quot;PnL&quot;: -6.4, &quot;Reason&quot;: &quot;AUTOMATED SELL - STOPLOSS TRIGGERED&quot;, &quot;Shares Sold&quot;: 16.0, &quot;Sell Price&quot;: 1.1}, {&quot;Date&quot;: &quot;2026-03-02&quot;, &quot;Ticker&quot;: &quot;ACTU&quot;, &quot;Shares Bought&quot;: NaN, &quot;Buy Price&quot;: NaN, &quot;Cost Basis&quot;: 5.75, &quot;PnL&quot;: -5.16, &quot;Reason&quot;: &quot;AUTOMATED SELL - STOPLOSS TRIGGERED&quot;, &quot;Shares Sold&quot;: 6.0, &quot;Sell Price&quot;: 4.89}]");
         
         // Update total equity
         if (portfolioData.length > 0) {
